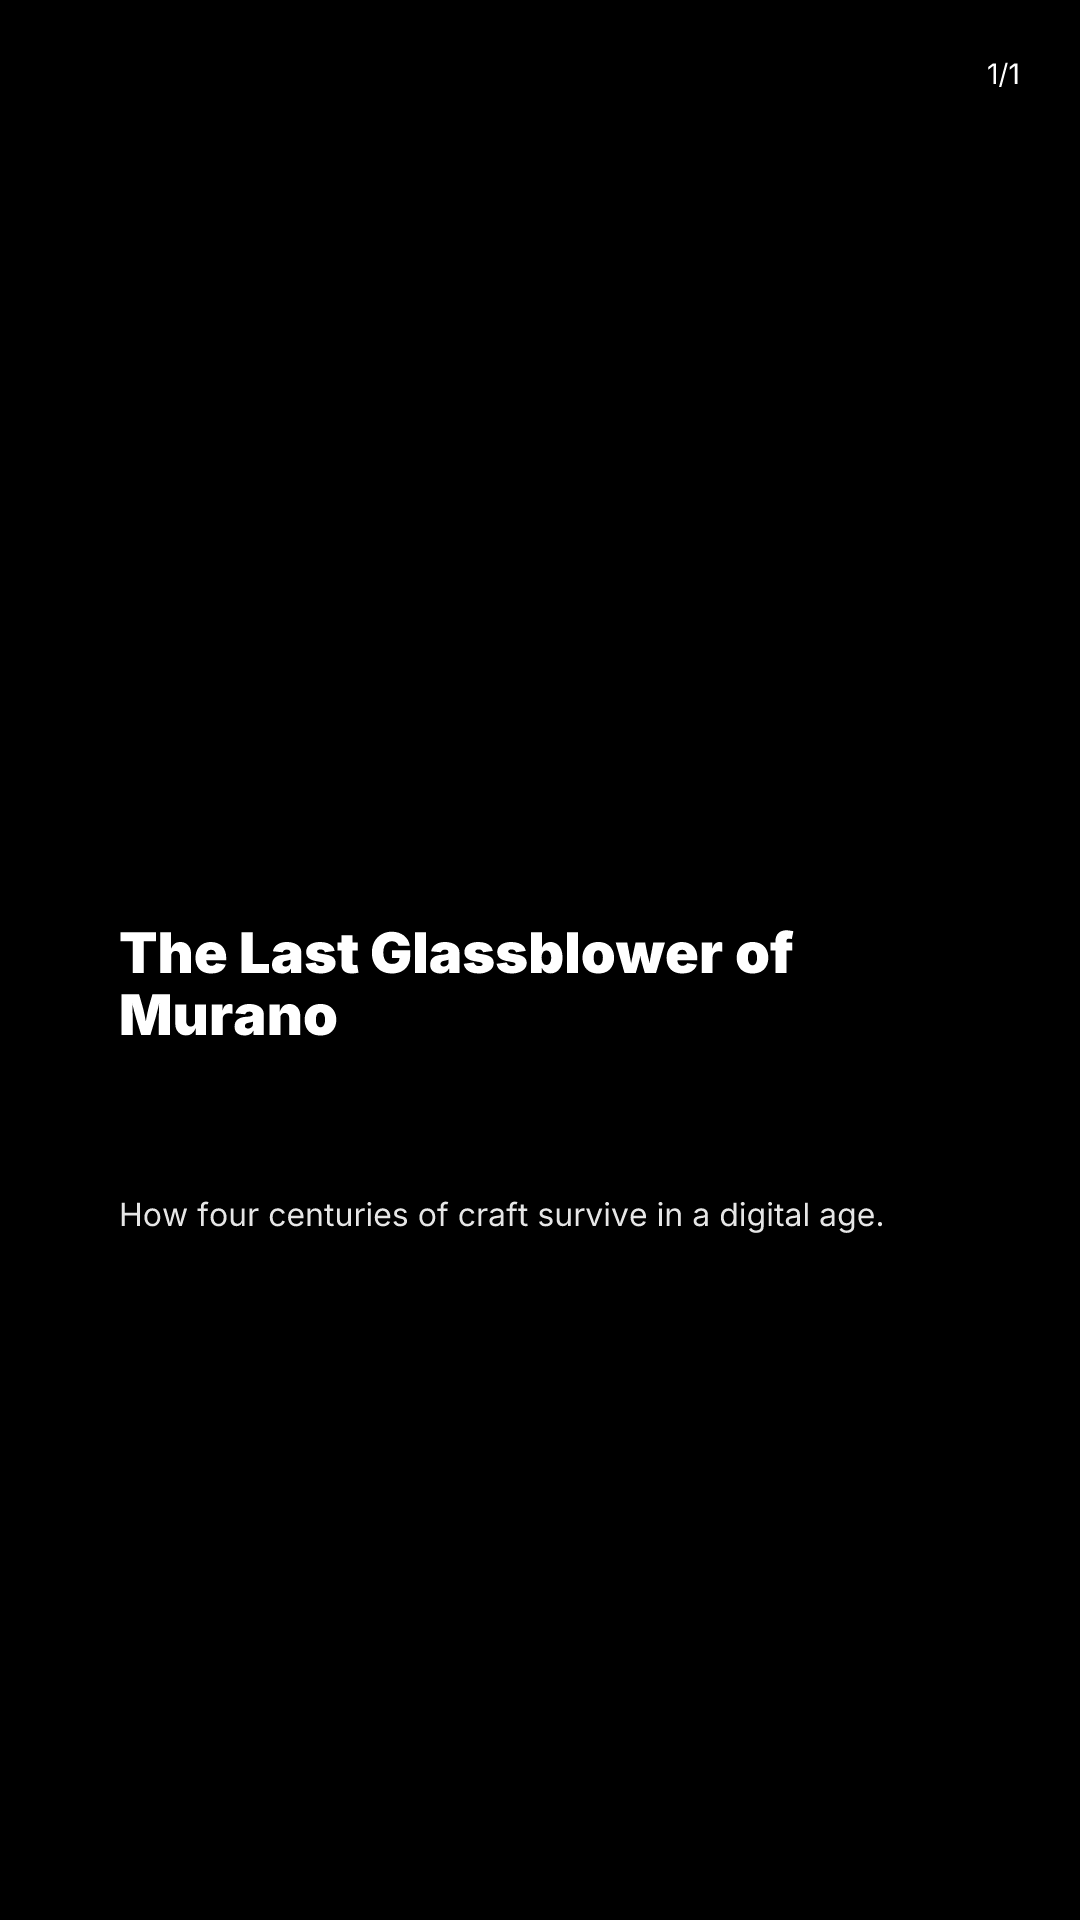
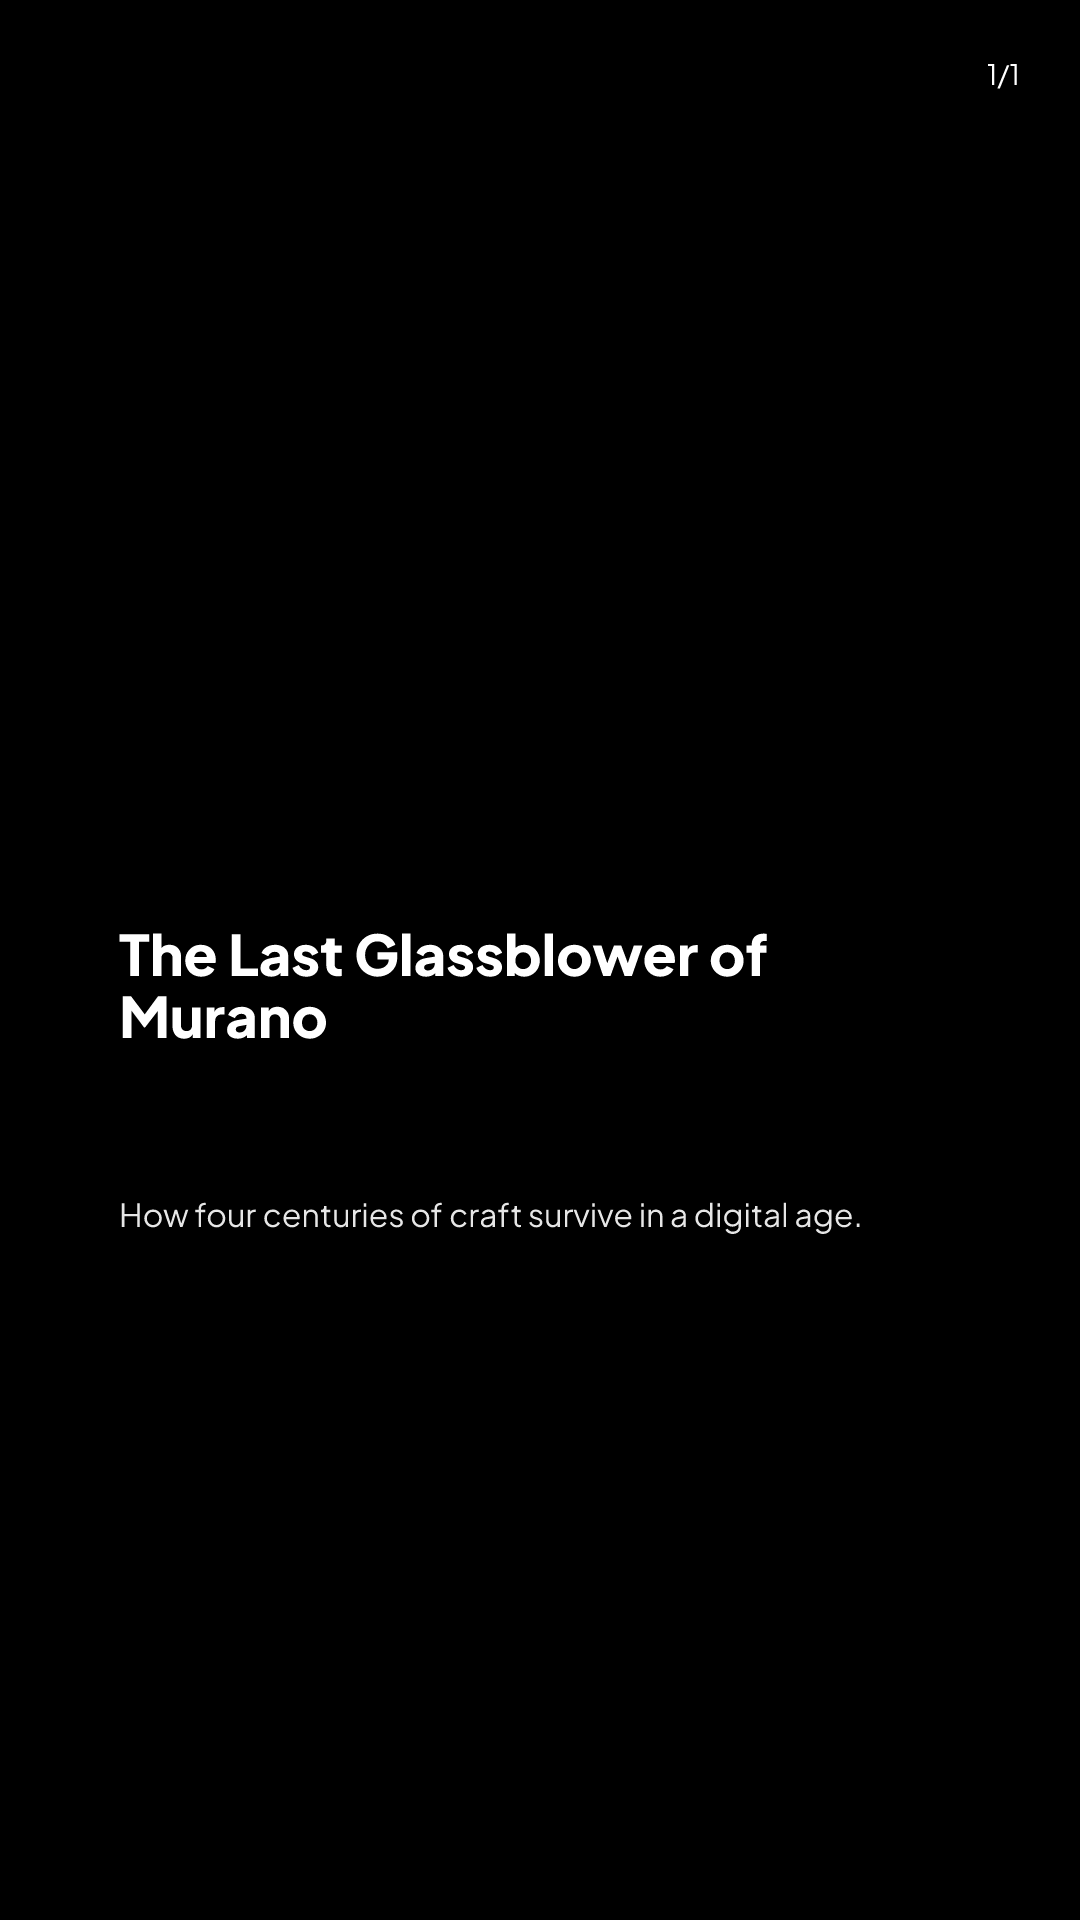
feat(54-02): SLOP-05 Inter audit — Plus Jakarta Sans replaces Inter in magazine-bold + documentary (D-13/D-14/D-15)
Phase 54 Task 2 of plan 02: escape the v2.5+ AI-default-font tell.

Imagen 4 Fast verification audit (D-16, TREAT-04):
- grep -rn 'imagen-3|imagen-2|imagen-1' src/ -> ZERO matches.
- grep imagen-4.0-fast-generate-001 src/lib/imagen/ src/lib/services/ -> 2 hits:
    src/lib/imagen/generate-image.ts:38
    src/lib/services/ai-regen.ts:71
  Verify-only — no code change.

src/lib/render/templates/magazine-bold.ts (line 19):
- fontFamily: 'Inter' -> 'Plus Jakarta Sans' (single body-font swap).
- headingFontFamily preserved as 'Anton' (display font, unrelated to Inter
  audit per D-13/D-14).
- Comment cites SLOP-05/D-13/D-14 + revert procedure (D-15) for future audits.

src/lib/render/templates/documentary.ts (lines 29-30):
- BOTH fontFamily and headingFontFamily 'Inter' -> 'Plus Jakarta Sans'.
- Documentary's minimal aesthetic deliberately uses a single typeface
  across body + heading; Plus Jakarta preserves that constraint.

Thumbnails regenerated (npm run thumbs):
- public/templates/magazine-bold.png: 56903 -> 63234 bytes (font weight
  shift visible in render).
- public/templates/documentary.png: 37439 -> 37042 bytes.
- (5 other templates also touched by sharp re-encode — content-equivalent).

Snapshot updates (Satori render snapshots in
src/__tests__/render/__snapshots__/premium-templates.test.tsx.snap):
- magazine-bold + documentary snapshots updated to reflect new
  fontFamily inline style. 3/3 premium-templates tests pass after update.
[…]

Changed region(s): [[0.1222, 0.4688, 0.7333, 0.5625], [0.1222, 0.625, 0.825, 0.6562], [0.9167, 0.0312, 0.9472, 0.0625]]

diff --git a/src/lib/render/templates/documentary.ts b/src/lib/render/templates/documentary.ts
@@ -26,8 +26,11 @@ export const documentary: SlideTemplate = {
   id: 'documentary',
   name: 'Documentary',
   thumbnail: '/templates/documentary.png',
-  fontFamily: "'Inter', sans-serif",
-  headingFontFamily: "'Inter', sans-serif",
+  // Phase 54 (SLOP-05, D-13/D-14): Plus Jakarta Sans replaces Inter on both
+  // body and heading slots. Documentary's minimal aesthetic targets a single
+  // typeface across the slide; preserving that constraint with Plus Jakarta.
+  fontFamily: "'Plus Jakarta Sans', sans-serif",
+  headingFontFamily: "'Plus Jakarta Sans', sans-serif",
   hookFontSize: '56px',
   bodyFontSize: '32px',
   textColor: '#ffffff',

diff --git a/src/lib/render/templates/magazine-bold.ts b/src/lib/render/templates/magazine-bold.ts
@@ -16,7 +16,10 @@ export const magazineBold: SlideTemplate = {
   id: 'magazine-bold',
   name: 'Magazine Bold',
   thumbnail: '/templates/magazine-bold.png',
-  fontFamily: "'Inter', sans-serif",
+  // Phase 54 (SLOP-05, D-13/D-14): Plus Jakarta Sans replaces Inter to escape
+  // the v2.5+-AI-default-font tell. Visual reference: Murphy Campbell carousel
+  // (v2.7 PROJECT.md). If aesthetic regresses, see D-15 for revert procedure.
+  fontFamily: "'Plus Jakarta Sans', sans-serif",
   headingFontFamily: "'Anton', sans-serif",
   hookFontSize: '72px',
   bodyFontSize: '32px',
